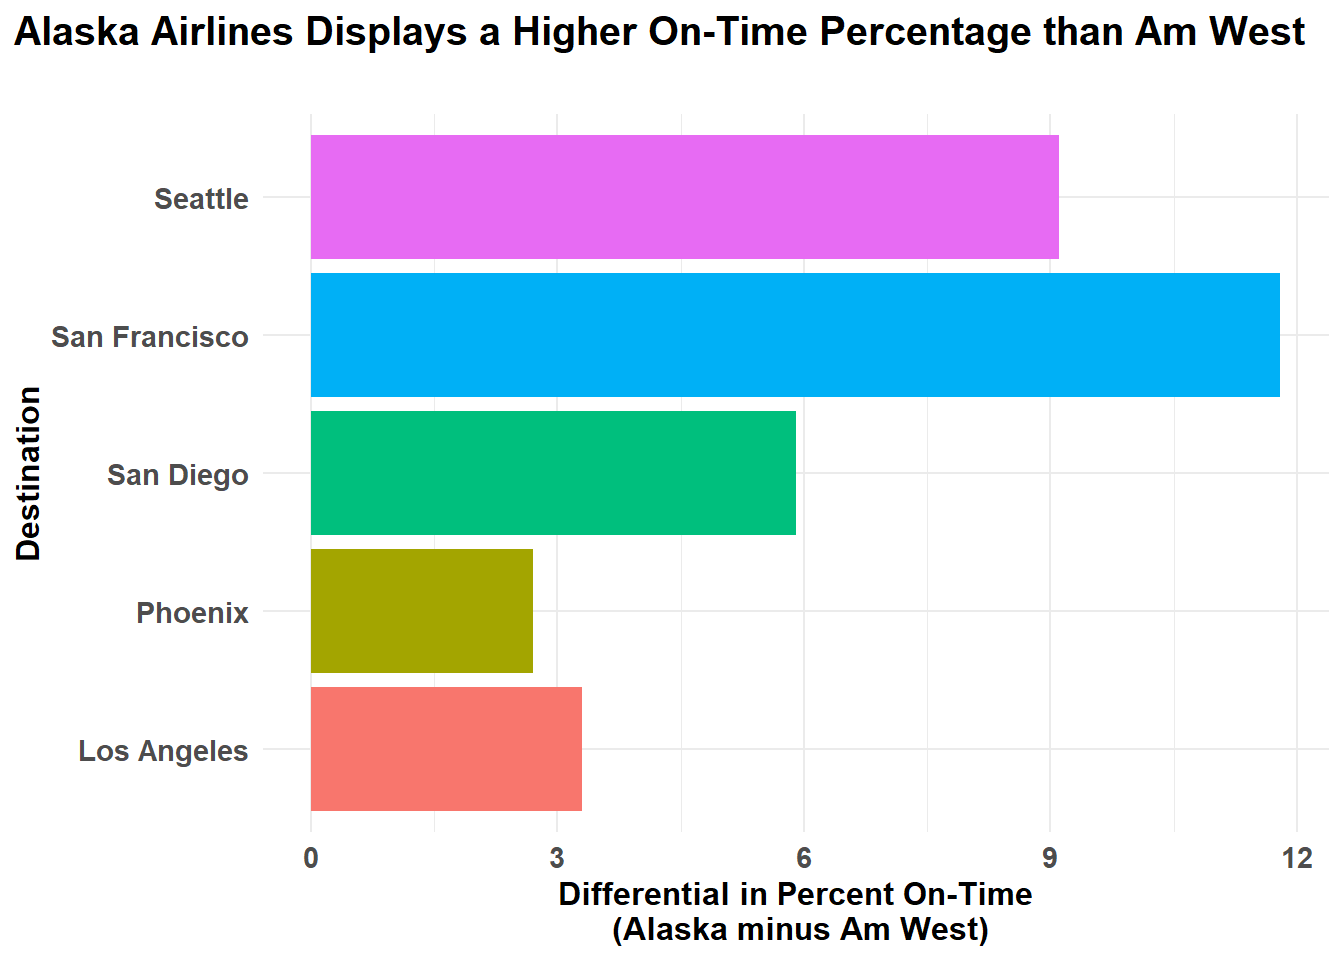
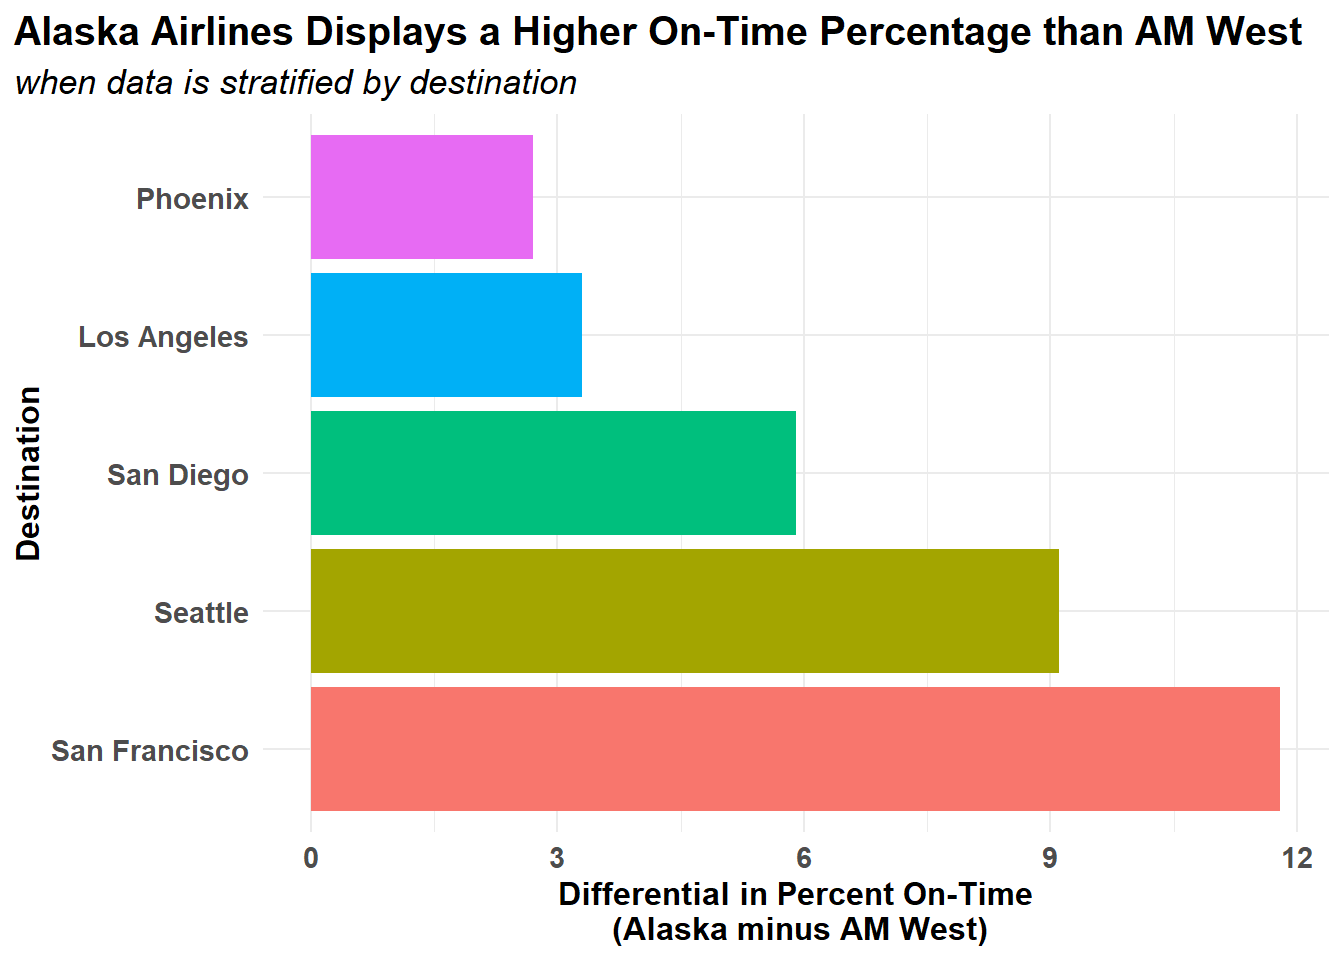
rerendered

diff --git a/Assignment5A-KCH-Codebase.html b/Assignment5A-KCH-Codebase.html
@@ -386,7 +386,7 @@ pre > code.sourceCode > span > a:first-child::before { text-decoration: underlin
 </section>
 <section id="visualizing-data" class="level2">
 <h2 class="anchored" data-anchor-id="visualizing-data">Visualizing Data</h2>
-<p>To view the aggregate level summaries, the <code>df_wide</code> data frame is reused and summary statistics are summarized into the new frame, <code>df_sum</code>. From there, the percent of on time flights for each airline, aggregated across destinations, is computed.</p>
+<p>To view the aggregate level summaries, the <code>df_wide</code> data frame is reused and summary statistics are summarized into the new frame, <code>df_sum</code>. From there, the percent of on time flights for each airline, aggregated across destinations, is computed. Next, a combined data-frame containing both stratified and aggregated data is formed via <code>bind_rows()</code>. The destination column is then factorized and the order of elements for the upcoming plot is rearranged. Lastly, a differential calculation is performed comparing the stratified results for the two airlines.</p>
 <div class="cell">
 <div class="code-copy-outer-scaffold"><div class="sourceCode cell-code" id="cb4"><pre class="sourceCode r code-with-copy"><code class="sourceCode r"><span id="cb4-1"><a href="#cb4-1" aria-hidden="true" tabindex="-1"></a>df_sum <span class="ot">&lt;-</span> df_wide <span class="sc">|&gt;</span></span>
 <span id="cb4-2"><a href="#cb4-2" aria-hidden="true" tabindex="-1"></a>  <span class="fu">group_by</span>(airline) <span class="sc">|&gt;</span></span>
@@ -412,8 +412,10 @@ pre > code.sourceCode > span > a:first-child::before { text-decoration: underlin
 <span id="cb4-22"><a href="#cb4-22" aria-hidden="true" tabindex="-1"></a></span>
 <span id="cb4-23"><a href="#cb4-23" aria-hidden="true" tabindex="-1"></a>df_viz <span class="ot">&lt;-</span> df_wider <span class="sc">|&gt;</span></span>
 <span id="cb4-24"><a href="#cb4-24" aria-hidden="true" tabindex="-1"></a>  <span class="fu">mutate</span>(<span class="at">diff =</span> alaska <span class="sc">-</span> am_west) <span class="sc">|&gt;</span></span>
-<span id="cb4-25"><a href="#cb4-25" aria-hidden="true" tabindex="-1"></a>  <span class="fu">select</span>(destination, diff)</span></code></pre></div><button title="Copy to Clipboard" class="code-copy-button"><i class="bi"></i></button></div>
+<span id="cb4-25"><a href="#cb4-25" aria-hidden="true" tabindex="-1"></a>  <span class="fu">mutate</span>(<span class="at">destination =</span> <span class="fu">factor</span>(destination, <span class="at">levels =</span> <span class="fu">c</span>(<span class="st">"San Francisco"</span>, <span class="st">"Seattle"</span>,  <span class="st">"San Diego"</span>, <span class="st">"Los Angeles"</span>, <span class="st">"Phoenix"</span>, <span class="st">"Overall (Aggregate)"</span>))) <span class="sc">|&gt;</span> </span>
+<span id="cb4-26"><a href="#cb4-26" aria-hidden="true" tabindex="-1"></a>  <span class="fu">select</span>(destination, diff)</span></code></pre></div><button title="Copy to Clipboard" class="code-copy-button"><i class="bi"></i></button></div>
 </div>
+<p>First, the on-time rates for all airlines and destinations is visualized.</p>
 <div class="cell">
 <div class="code-copy-outer-scaffold"><div class="sourceCode cell-code" id="cb5"><pre class="sourceCode r code-with-copy"><code class="sourceCode r"><span id="cb5-1"><a href="#cb5-1" aria-hidden="true" tabindex="-1"></a>df_summary <span class="sc">|&gt;</span></span>
 <span id="cb5-2"><a href="#cb5-2" aria-hidden="true" tabindex="-1"></a>  <span class="fu">ggplot</span>(<span class="fu">aes</span>(<span class="at">x=</span>destination, </span>
@@ -440,14 +442,15 @@ Figure&nbsp;1: Comparing On-Time Rates Across Airline and Destination
 </div>
 </div>
 </div>
+<p>Next, the differentials in arrival delays between Alaska airline and AM West airline are visualized for each of the five destinations.</p>
 <div class="cell">
 <div class="code-copy-outer-scaffold"><div class="sourceCode cell-code" id="cb6"><pre class="sourceCode r code-with-copy"><code class="sourceCode r"><span id="cb6-1"><a href="#cb6-1" aria-hidden="true" tabindex="-1"></a>df_viz <span class="sc">|&gt;</span></span>
 <span id="cb6-2"><a href="#cb6-2" aria-hidden="true" tabindex="-1"></a>  <span class="fu">ggplot</span>(<span class="fu">aes</span>(<span class="at">x=</span>destination, <span class="at">y=</span>diff, <span class="at">fill=</span>destination)) <span class="sc">+</span></span>
 <span id="cb6-3"><a href="#cb6-3" aria-hidden="true" tabindex="-1"></a>  <span class="fu">geom_col</span>(<span class="at">show.legend =</span> <span class="cn">FALSE</span>) <span class="sc">+</span></span>
-<span id="cb6-4"><a href="#cb6-4" aria-hidden="true" tabindex="-1"></a>  <span class="fu">labs</span>(<span class="at">title =</span> <span class="st">"Alaska Airlines Displays a Higher On-Time Percentage than Am West"</span>,</span>
-<span id="cb6-5"><a href="#cb6-5" aria-hidden="true" tabindex="-1"></a>       <span class="at">subtitle =</span> <span class="st">""</span>,</span>
+<span id="cb6-4"><a href="#cb6-4" aria-hidden="true" tabindex="-1"></a>  <span class="fu">labs</span>(<span class="at">title =</span> <span class="st">"Alaska Airlines Displays a Higher On-Time Percentage than AM West"</span>,</span>
+<span id="cb6-5"><a href="#cb6-5" aria-hidden="true" tabindex="-1"></a>       <span class="at">subtitle =</span> <span class="st">"when data is stratified by destination"</span>,</span>
 <span id="cb6-6"><a href="#cb6-6" aria-hidden="true" tabindex="-1"></a>       <span class="at">x =</span> <span class="st">"Destination"</span>,</span>
-<span id="cb6-7"><a href="#cb6-7" aria-hidden="true" tabindex="-1"></a>       <span class="at">y =</span> <span class="st">"Differential in Percent On-Time</span><span class="sc">\n</span><span class="st"> (Alaska minus Am West)"</span></span>
+<span id="cb6-7"><a href="#cb6-7" aria-hidden="true" tabindex="-1"></a>       <span class="at">y =</span> <span class="st">"Differential in Percent On-Time</span><span class="sc">\n</span><span class="st"> (Alaska minus AM West)"</span></span>
 <span id="cb6-8"><a href="#cb6-8" aria-hidden="true" tabindex="-1"></a>       ) <span class="sc">+</span></span>
 <span id="cb6-9"><a href="#cb6-9" aria-hidden="true" tabindex="-1"></a>  <span class="fu">coord_flip</span>() <span class="sc">+</span></span>
 <span id="cb6-10"><a href="#cb6-10" aria-hidden="true" tabindex="-1"></a>  <span class="fu">theme_standard</span>()</span></code></pre></div><button title="Copy to Clipboard" class="code-copy-button"><i class="bi"></i></button></div>
@@ -458,44 +461,15 @@ Figure&nbsp;1: Comparing On-Time Rates Across Airline and Destination
 <img src="Assignment5A-KCH-Codebase_files/figure-html/fig-2-1.png" class="img-fluid figure-img" width="672">
 </div>
 <figcaption class="quarto-float-caption-bottom quarto-float-caption quarto-float-fig" id="fig-2-caption-0ceaefa1-69ba-4598-a22c-09a6ac19f8ca">
-Figure&nbsp;2: Alaska Airlines Displays a Higher On-Time Percentage than Am West
+Figure&nbsp;2: Alaska Airlines Displays a Higher On-Time Percentage than AM West
 </figcaption>
 </figure>
 </div>
 </div>
 </div>
+<p>The aggregate data is summarized in a table.</p>
 <div class="cell">
-<div class="code-copy-outer-scaffold"><div class="sourceCode cell-code" id="cb7"><pre class="sourceCode r code-with-copy"><code class="sourceCode r"><span id="cb7-1"><a href="#cb7-1" aria-hidden="true" tabindex="-1"></a>df_combined <span class="sc">|&gt;</span> </span>
-<span id="cb7-2"><a href="#cb7-2" aria-hidden="true" tabindex="-1"></a>  <span class="fu">ggplot</span>(<span class="fu">aes</span>(<span class="at">x=</span>on_time_pct, </span>
-<span id="cb7-3"><a href="#cb7-3" aria-hidden="true" tabindex="-1"></a>             <span class="at">y =</span> destination, </span>
-<span id="cb7-4"><a href="#cb7-4" aria-hidden="true" tabindex="-1"></a>             <span class="at">color =</span> airline)) <span class="sc">+</span></span>
-<span id="cb7-5"><a href="#cb7-5" aria-hidden="true" tabindex="-1"></a>  <span class="fu">geom_line</span>(<span class="fu">aes</span>(<span class="at">group =</span> destination), <span class="at">color =</span> <span class="st">"gray"</span>, <span class="at">linewidth =</span> <span class="fl">1.2</span>) <span class="sc">+</span></span>
-<span id="cb7-6"><a href="#cb7-6" aria-hidden="true" tabindex="-1"></a>  <span class="fu">geom_point</span>(<span class="at">size =</span><span class="dv">3</span>) <span class="sc">+</span></span>
-<span id="cb7-7"><a href="#cb7-7" aria-hidden="true" tabindex="-1"></a>  <span class="fu">scale_x_continuous</span>(<span class="at">limits =</span> <span class="fu">c</span>(<span class="dv">70</span>,<span class="dv">100</span>)) <span class="sc">+</span></span>
-<span id="cb7-8"><a href="#cb7-8" aria-hidden="true" tabindex="-1"></a>  <span class="fu">labs</span>(</span>
-<span id="cb7-9"><a href="#cb7-9" aria-hidden="true" tabindex="-1"></a>    <span class="at">title =</span> <span class="st">"Comparing Stratified to Aggregate Data"</span>,</span>
-<span id="cb7-10"><a href="#cb7-10" aria-hidden="true" tabindex="-1"></a>    <span class="at">subtitle =</span> <span class="st">"Visualizing Simpson's Paradox"</span>,</span>
-<span id="cb7-11"><a href="#cb7-11" aria-hidden="true" tabindex="-1"></a>    <span class="at">x =</span> <span class="st">"On-Time Percentage"</span>,</span>
-<span id="cb7-12"><a href="#cb7-12" aria-hidden="true" tabindex="-1"></a>    <span class="at">y =</span> <span class="cn">NULL</span>,</span>
-<span id="cb7-13"><a href="#cb7-13" aria-hidden="true" tabindex="-1"></a>    <span class="at">color =</span> <span class="st">"Airline"</span></span>
-<span id="cb7-14"><a href="#cb7-14" aria-hidden="true" tabindex="-1"></a>  ) <span class="sc">+</span></span>
-<span id="cb7-15"><a href="#cb7-15" aria-hidden="true" tabindex="-1"></a>  <span class="fu">theme_standard</span>() <span class="sc">+</span></span>
-<span id="cb7-16"><a href="#cb7-16" aria-hidden="true" tabindex="-1"></a>  <span class="fu">geom_hline</span>(<span class="at">yintercept =</span> <span class="fl">5.5</span>)</span></code></pre></div><button title="Copy to Clipboard" class="code-copy-button"><i class="bi"></i></button></div>
-<div class="cell-output-display">
-<div id="fig-3" class="quarto-float quarto-figure quarto-figure-center anchored">
-<figure class="quarto-float quarto-float-fig figure">
-<div aria-describedby="fig-3-caption-0ceaefa1-69ba-4598-a22c-09a6ac19f8ca">
-<img src="Assignment5A-KCH-Codebase_files/figure-html/fig-3-1.png" class="img-fluid figure-img" width="672">
-</div>
-<figcaption class="quarto-float-caption-bottom quarto-float-caption quarto-float-fig" id="fig-3-caption-0ceaefa1-69ba-4598-a22c-09a6ac19f8ca">
-Figure&nbsp;3: Comparing Stratified to Aggregate Data
-</figcaption>
-</figure>
-</div>
-</div>
-</div>
-<div class="cell">
-<div class="code-copy-outer-scaffold"><div class="sourceCode cell-code" id="cb8"><pre class="sourceCode r code-with-copy"><code class="sourceCode r"><span id="cb8-1"><a href="#cb8-1" aria-hidden="true" tabindex="-1"></a>knitr<span class="sc">::</span><span class="fu">kable</span>(df_sum)</span></code></pre></div><button title="Copy to Clipboard" class="code-copy-button"><i class="bi"></i></button></div>
+<div class="code-copy-outer-scaffold"><div class="sourceCode cell-code" id="cb7"><pre class="sourceCode r code-with-copy"><code class="sourceCode r"><span id="cb7-1"><a href="#cb7-1" aria-hidden="true" tabindex="-1"></a>knitr<span class="sc">::</span><span class="fu">kable</span>(df_sum)</span></code></pre></div><button title="Copy to Clipboard" class="code-copy-button"><i class="bi"></i></button></div>
 <div id="tbl-4" class="cell quarto-float quarto-figure quarto-figure-center anchored">
 <figure class="quarto-float quarto-float-tbl figure">
 <figcaption class="quarto-float-caption-top quarto-float-caption quarto-float-tbl" id="tbl-4-caption-0ceaefa1-69ba-4598-a22c-09a6ac19f8ca">
@@ -526,15 +500,47 @@ Table&nbsp;1: Aggregate Summary
 </figure>
 </div>
 </div>
+<p>Lastly, the average on-time rates for the stratified data is compared to the aggregate data for each airline.</p>
+<div class="cell">
+<div class="code-copy-outer-scaffold"><div class="sourceCode cell-code" id="cb8"><pre class="sourceCode r code-with-copy"><code class="sourceCode r"><span id="cb8-1"><a href="#cb8-1" aria-hidden="true" tabindex="-1"></a>df_combined <span class="sc">|&gt;</span> </span>
+<span id="cb8-2"><a href="#cb8-2" aria-hidden="true" tabindex="-1"></a>  <span class="fu">ggplot</span>(<span class="fu">aes</span>(<span class="at">x=</span>on_time_pct, </span>
+<span id="cb8-3"><a href="#cb8-3" aria-hidden="true" tabindex="-1"></a>             <span class="at">y =</span> destination, </span>
+<span id="cb8-4"><a href="#cb8-4" aria-hidden="true" tabindex="-1"></a>             <span class="at">color =</span> airline)) <span class="sc">+</span></span>
+<span id="cb8-5"><a href="#cb8-5" aria-hidden="true" tabindex="-1"></a>  <span class="fu">geom_line</span>(<span class="fu">aes</span>(<span class="at">group =</span> destination), <span class="at">color =</span> <span class="st">"gray"</span>, <span class="at">linewidth =</span> <span class="fl">1.2</span>) <span class="sc">+</span></span>
+<span id="cb8-6"><a href="#cb8-6" aria-hidden="true" tabindex="-1"></a>  <span class="fu">geom_point</span>(<span class="at">size =</span><span class="dv">3</span>) <span class="sc">+</span></span>
+<span id="cb8-7"><a href="#cb8-7" aria-hidden="true" tabindex="-1"></a>  <span class="fu">scale_x_continuous</span>(<span class="at">limits =</span> <span class="fu">c</span>(<span class="dv">70</span>,<span class="dv">100</span>)) <span class="sc">+</span></span>
+<span id="cb8-8"><a href="#cb8-8" aria-hidden="true" tabindex="-1"></a>  <span class="fu">labs</span>(</span>
+<span id="cb8-9"><a href="#cb8-9" aria-hidden="true" tabindex="-1"></a>    <span class="at">title =</span> <span class="st">"Comparing Stratified to Aggregate Data"</span>,</span>
+<span id="cb8-10"><a href="#cb8-10" aria-hidden="true" tabindex="-1"></a>    <span class="at">subtitle =</span> <span class="st">"Visualizing Simpson's Paradox"</span>,</span>
+<span id="cb8-11"><a href="#cb8-11" aria-hidden="true" tabindex="-1"></a>    <span class="at">x =</span> <span class="st">"On-Time Percentage"</span>,</span>
+<span id="cb8-12"><a href="#cb8-12" aria-hidden="true" tabindex="-1"></a>    <span class="at">y =</span> <span class="cn">NULL</span>,</span>
+<span id="cb8-13"><a href="#cb8-13" aria-hidden="true" tabindex="-1"></a>    <span class="at">color =</span> <span class="st">"Airline"</span></span>
+<span id="cb8-14"><a href="#cb8-14" aria-hidden="true" tabindex="-1"></a>  ) <span class="sc">+</span> </span>
+<span id="cb8-15"><a href="#cb8-15" aria-hidden="true" tabindex="-1"></a>  <span class="fu">geom_hline</span>(<span class="at">yintercept =</span> <span class="fl">5.5</span>) <span class="sc">+</span></span>
+<span id="cb8-16"><a href="#cb8-16" aria-hidden="true" tabindex="-1"></a>  <span class="fu">theme_standard</span>()</span></code></pre></div><button title="Copy to Clipboard" class="code-copy-button"><i class="bi"></i></button></div>
+<div class="cell-output-display">
+<div id="fig-3" class="quarto-float quarto-figure quarto-figure-center anchored">
+<figure class="quarto-float quarto-float-fig figure">
+<div aria-describedby="fig-3-caption-0ceaefa1-69ba-4598-a22c-09a6ac19f8ca">
+<img src="Assignment5A-KCH-Codebase_files/figure-html/fig-3-1.png" class="img-fluid figure-img" width="672">
+</div>
+<figcaption class="quarto-float-caption-bottom quarto-float-caption quarto-float-fig" id="fig-3-caption-0ceaefa1-69ba-4598-a22c-09a6ac19f8ca">
+Figure&nbsp;3: Comparing Stratified to Aggregate Data
+</figcaption>
+</figure>
+</div>
+</div>
+</div>
 </section>
 </section>
 <section id="findings-and-recommendations" class="level1">
 <h1>Findings and Recommendations</h1>
-<p>In this assignment a .CSV file was loaded into a data frame using <code>read_csv()</code> and the data frame was tidied and reorganized in several iterations. The frame was transformed wider and longer from its initial shape. In the end, the data is described in two visualizations comparing on-time rates (percentage) for five destinations across two airlines and the difference in on-time rates for the two airlines.</p>
-<p>According to <a href="#fig-1" class="quarto-xref">Figure&nbsp;1</a>, each airline shows on-time rates exceeding 70%, with data from all of the Alaska airline destinations exceeding 80%. Flights to Phoenix represented the highest on-time rates for both airlines, while San Francisco represented the destination with the lowest on-time rates.</p>
-<p>In <a href="#fig-2" class="quarto-xref">Figure&nbsp;2</a>, it is clear that Alaska airline has higher on-time percent rates than Am West airline, when the data is stratified by destination. Here, the differential for each destination (calculated as Alaska on-time rate minus Am West on-time rate) is shown, which compares the on-time rates for the airlines across all five destinations. This chart makes apparent that the largest differential in on-time rates occurs when San Francisco is the destination.</p>
-<p>Finally, a comparison of the two airlines on aggregate statistics is presented in <a href="#tbl-4" class="quarto-xref">Table&nbsp;1</a>. This table exposes a discrepancy in the data: in <a href="#fig-1" class="quarto-xref">Figure&nbsp;1</a> and <a href="#fig-2" class="quarto-xref">Figure&nbsp;2</a> it was clear that Alaska airline outperformed Am West airline when results were dis-aggregated by destination; however, in <a href="#tbl-4" class="quarto-xref">Table&nbsp;1</a>, it is shown that Am West outperforms Alaska airline in on-time rates in aggregate. This situation is an example of Simpson’s paradox: the trend observed in the stratified data is no longer apparent in the aggregated data. This is likely due to the extreme number of on-time Am West flights to Phoenix: 4840. This likely skewed the aggregate data to show a high percentage of on-time flights for Am West.</p>
-<p>Overall, this assignment could be extended by incorporating more data into the analysis (more airlines, more destinations, average delay times, etc.). Additionally, if historical data were available, the on-time rates for each airline could be calculated for each year or month of operation. Lastly, this assignment could be completed using a mySQL database for storage and then SQL manipulations could be practiced.</p>
+<p>In this assignment a .CSV file was loaded into a data frame using <code>read_csv()</code> and the data frame was tidied and reorganized in several iterations. The frame was transformed wider and longer from its initial shape. In the end, the data is described in three visualizations showing on-time rates (percentage) for five destinations across two airlines, the difference in on-time rates for the two airlines (stratified by destination), and a comparison of the aggregate data to the stratified data.</p>
+<p>According to <a href="#fig-1" class="quarto-xref">Figure&nbsp;1</a>, both airlines show on-time rates exceeding 70%, with data from all of the Alaska airline destinations exceeding 80%. Flights to Phoenix represented the highest on-time rates for both airlines (&gt;92%), while San Francisco represented the destination with the lowest on-time rates (&lt;84%).</p>
+<p>When the data is stratified by destination, as in <a href="#fig-2" class="quarto-xref">Figure&nbsp;2</a>, Alaska airline has higher on-time percentage rates than AM West airline. Here, the differential for each destination (calculated as Alaska on-time rate minus AM West on-time rate) is shown, which compares the on-time rates for the airlines across all five destinations. This chart makes apparent that the largest differential in on-time rates occurs when San Francisco is the destination (+11.8%).</p>
+<p>Despite Alaska leading across all five destinations, <a href="#tbl-4" class="quarto-xref">Table&nbsp;1</a> reveals an apparent contradiction: AM West achieves a higher aggregate on-time rate (89.1%) than Alaska airline (86.7%). In <a href="#fig-1" class="quarto-xref">Figure&nbsp;1</a> and <a href="#fig-2" class="quarto-xref">Figure&nbsp;2</a>, Alaska airline outperformed AM West airline when results were stratified by destination; however, in <a href="#tbl-4" class="quarto-xref">Table&nbsp;1</a>, it is shown that AM West outperforms Alaska airline in on-time rates in aggregate. This situation is an example of Simpson’s paradox: the trend observed in the stratified data is no longer apparent in the aggregated data. This is likely due to the extreme number of on-time AM West flights to Phoenix: 4840. This skewed the aggregate data, which is a volume-weighted average, to show a high percentage of on-time flights for AM West. As Phoenix is the destination where each airline demonstrated their highest on-time rates, over-representing the AM West Phoenix route in the data set leads to the contradiction between aggregate rates and stratified rates.</p>
+<p>To better visualize Simpson’s paradox, <a href="#fig-3" class="quarto-xref">Figure&nbsp;3</a> compares the aggregate data (above the horizontal line) to the stratified data (below the horizontal line). Across each destination, Alaska’s on time rate is greater than AM West’s; however, when aggregated together, AM West has a greater overall on-time rate.</p>
+<p>Overall, this assignment could be extended by incorporating more data into the analysis (more airlines, more destinations, average delay times, etc.). Additionally, if historical data were available, the on-time rates for each airline could be calculated for each year or month of operation. Lastly, this assignment could be completed using a MySQL database for storage and then SQL manipulations could be practiced.</p>
 </section>
 
 </main>
